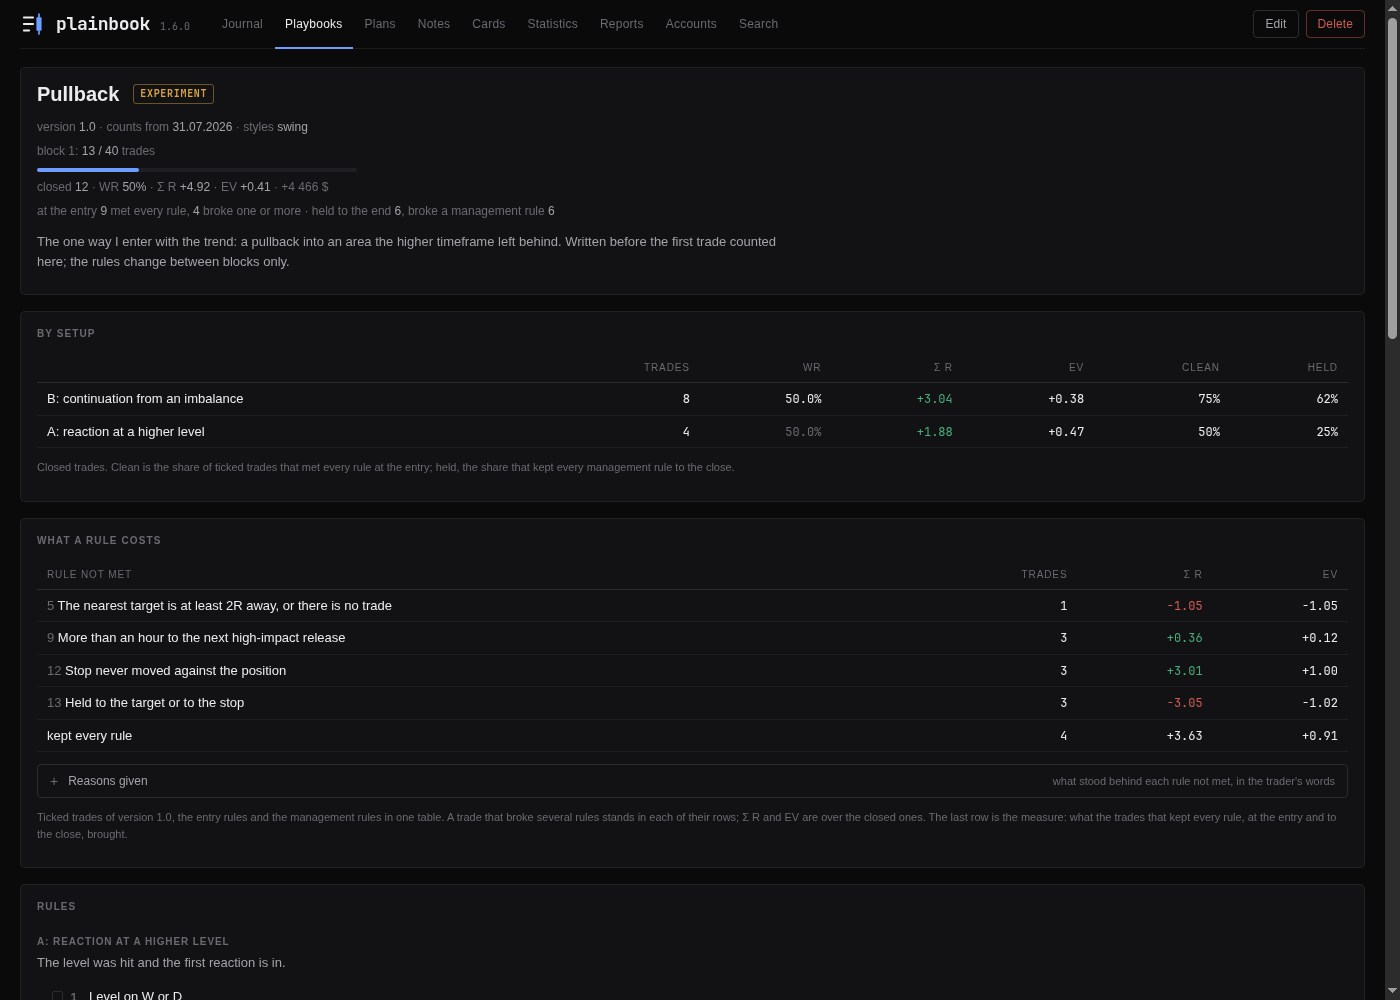
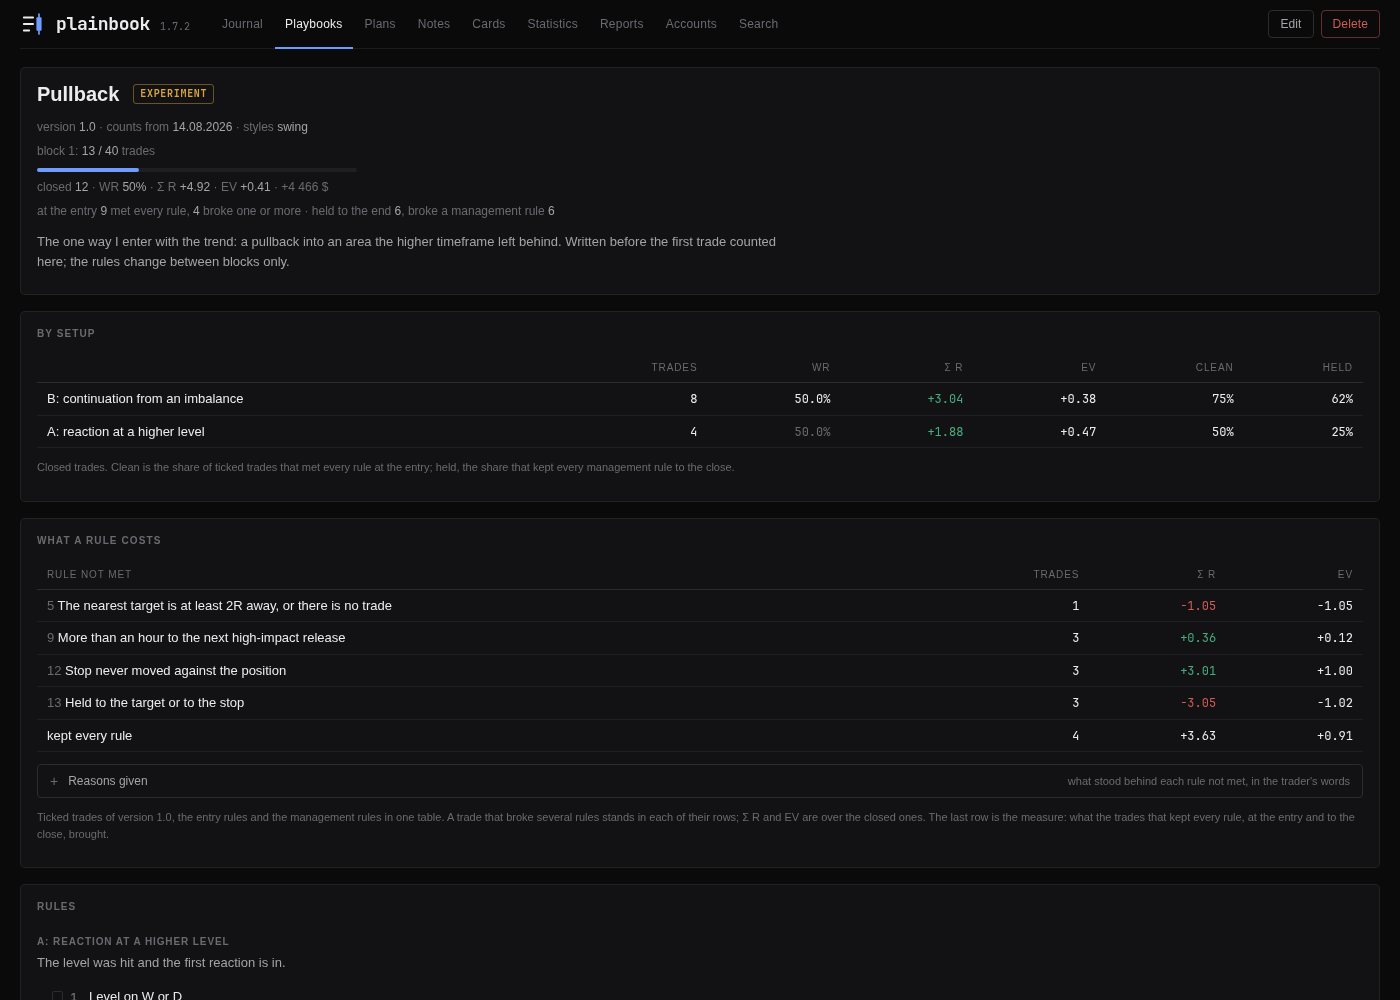
Release v1.7.2
Bug fixes and tidying after an audit: the version people see on the
front page moves with the changelog, and the pictures are retaken so
that they carry it.

diff --git a/plainbook/__init__.py b/plainbook/__init__.py
@@ -4,4 +4,4 @@
 # the version a person has: on the front page, so that a report of a
 # problem can say which one it is about. Raised together with the heading
 # in CHANGELOG.md when a version is released.
-__version__ = "1.7.1"
+__version__ = "1.7.2"
